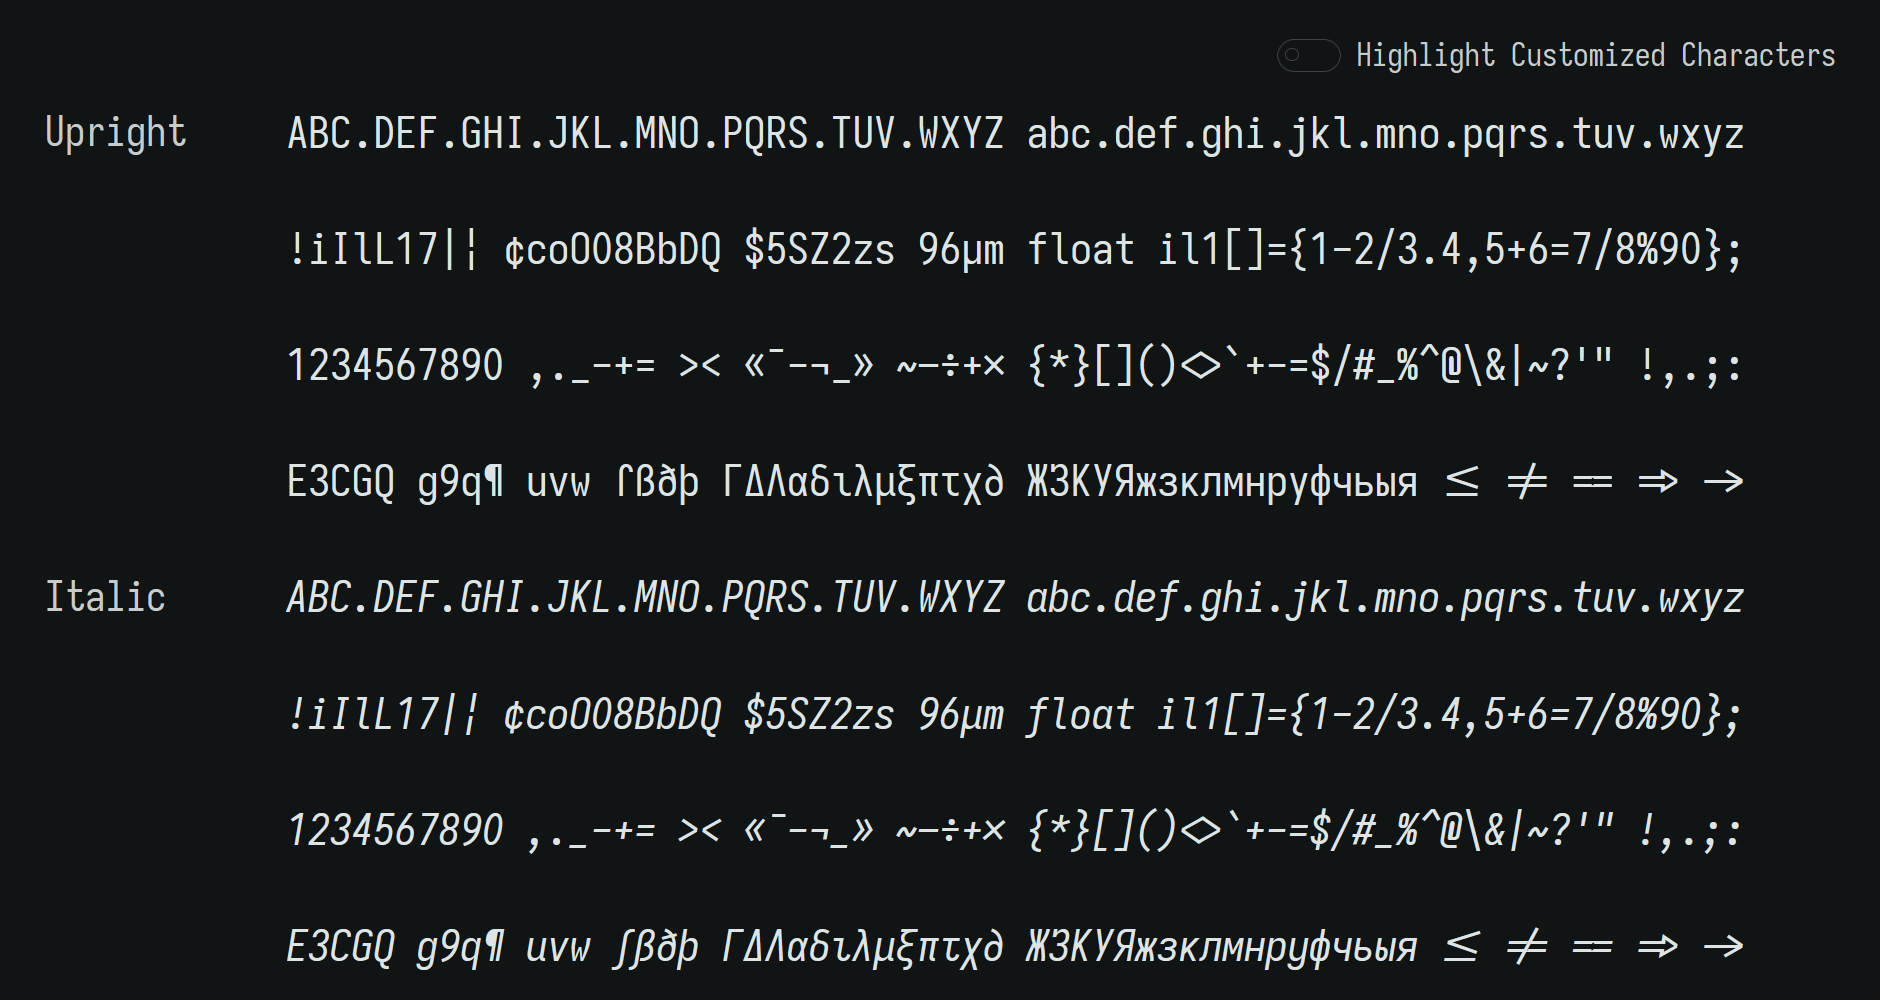
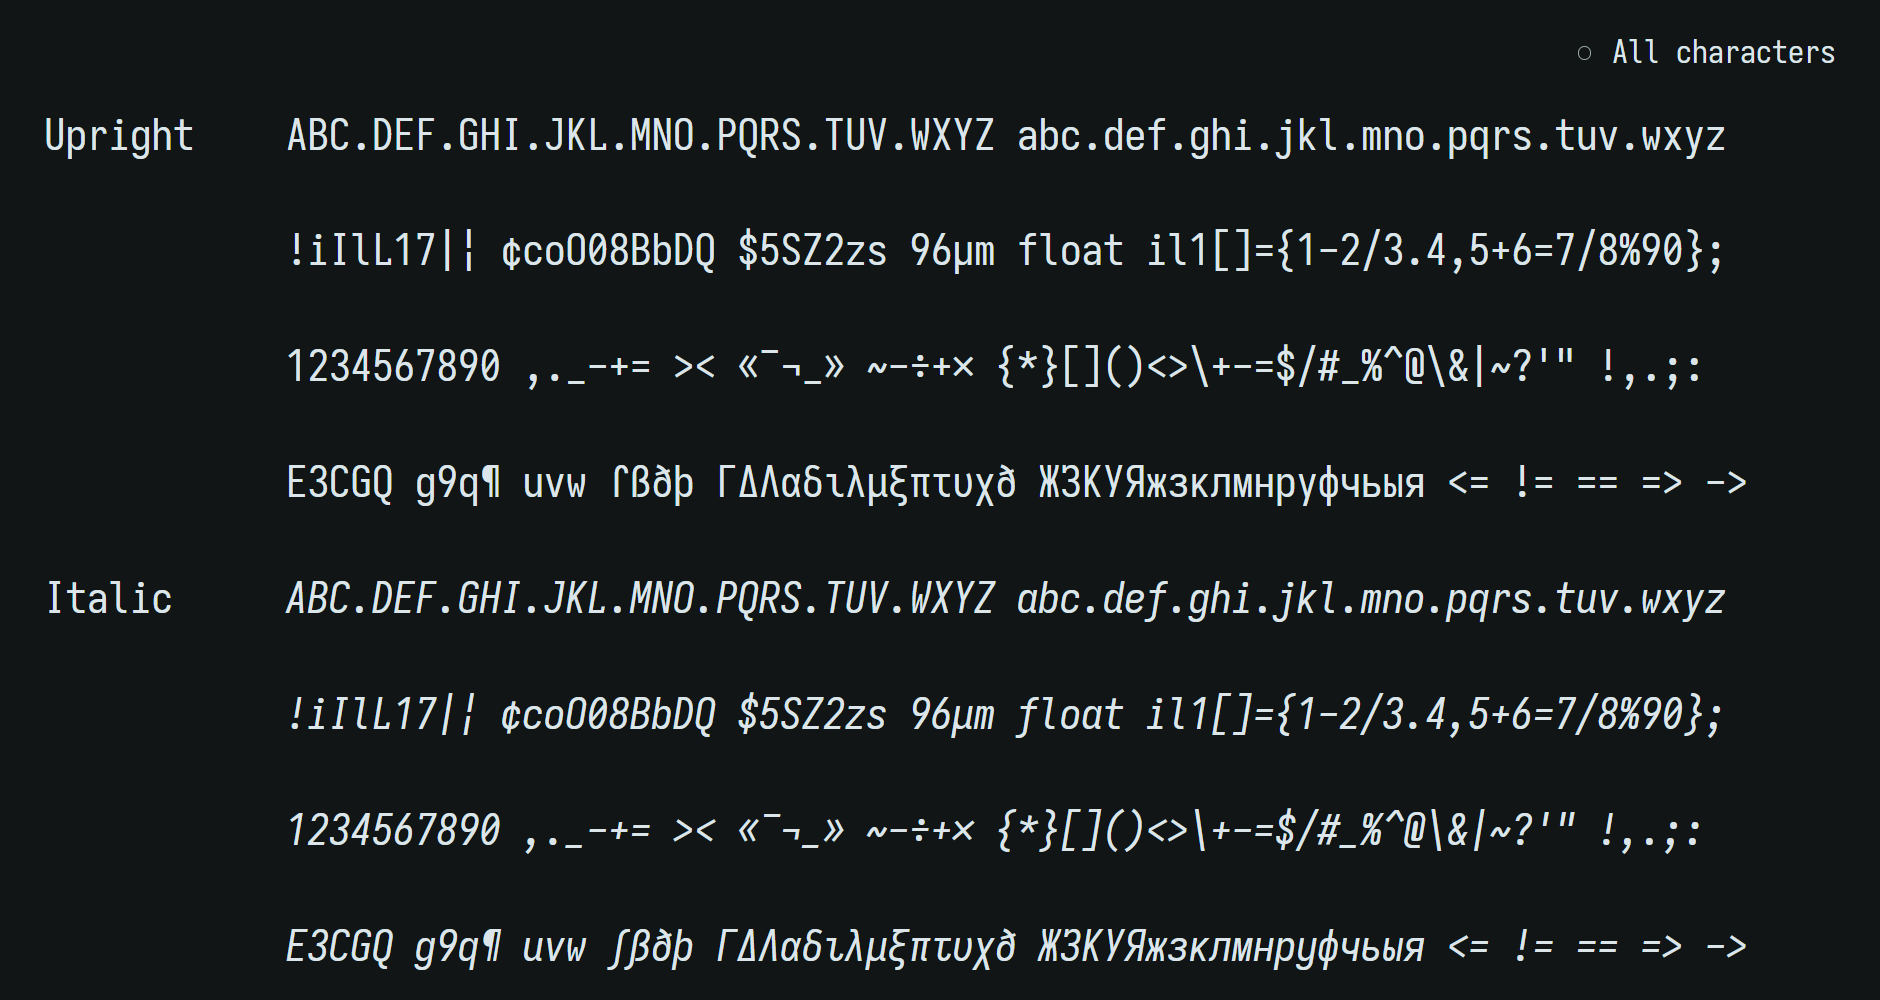
(feat): refine L, 0, 7, and 9 glyph styles
Add a motion serif to L, give 0 a tall slash, and use a straight,
serifed 7. Restore the default shape for 9.

Align the README with the build plan and refresh both screenshots.

diff --git a/README.md b/README.md
@@ -4,13 +4,14 @@ Custom build of the [Iosevka](https://github.com/be5invis/Iosevka) font.
 
 ## Character styles
 
-Based of default configuration with changes:
+This build customizes the following character styles.
 
 - `D` with more rounded shape; without serifs
 - `G` with tootheless (corner) body, and inward hook terminal; without top serif
 - `I` with short serifs
+- `L` with motion serif at bottom right
 - `W` with curly body; without serifs
-- `f` with flat top hook, descending extension, and crossbar at X-height
+- `f` with a flat top hook and a crossbar at x-height in both styles. The upright has no bottom serif or hook. The italic has a descending bottom hook.
 - `i` with shorter top serif and full bottom serif
 - `k` with standard shape; without serifs, to override default italic
 - `l` with top serif and curly-then-flat tail
@@ -18,22 +19,20 @@ Based of default configuration with changes:
 - `w` with curly body; without serifs
 - `y` with straight shape, and a tail turns leftward; without serifs
 - Greek small Lambda (`λ`) with straight upper and a tail turns leftward
-- Cyrillic Capital Lower Zhe (`Ж`) with curly legs
+- Cyrillic Capital Zhe (`Ж`) with curly legs
 - Cyrillic Lower Zhe (`ж`) with curly legs
-- Cyrillic Capital Ze (`З`) with serif at both top and bottom, to distinguish from `3`
+- Cyrillic Capital Ze (`З`) with a serif at the top, to distinguish it from `3`
 - Cyrillic Capital Ka (`К`) with straight shape; without serifs
 - Cyrillic Lower Ka (`к`) with straight shape; without serifs
 - Cyrillic Lower Ef (`ф`) with standard shape and without serifs, to override default italic
-- Zero (`0`) with oval shape; without slash
+- `0` with oval body shape, and tall slash
 - `2` with straight neck; without serifs
 - `4` with closed contour; without serifs
-- `5` with arched middle part; without serifs
+- `5` with an oblique upper-left bar and an arched middle part, without serifs
+- `7` with straight stem, and serifs
 - `8` looks like two circles joined together
-- `9` with a more open contour
 - Asterisk (`*`) with five-pointed shape, and medium position
 - Higher circumflex `^`
-- Parenthesis with larger contour, like that in Monaco
-- More straight braces
 - Straight Guillemets (`« »`)
 - Number sign with slanted bars
 - At symbol (`@`) with four-fold body, and solid inner
@@ -55,7 +54,7 @@ Based of default configuration with changes:
 
 ## Shape
 
-- Bold is one step bolder than standard.
+- SemiBold, Bold, and ExtraBold use shape weights of 700, 800, and 900, respectively. Each is 100 above the corresponding Iosevka default. Their menu and CSS weights are 600, 700, and 800.
 
 ## Screenshots
 
